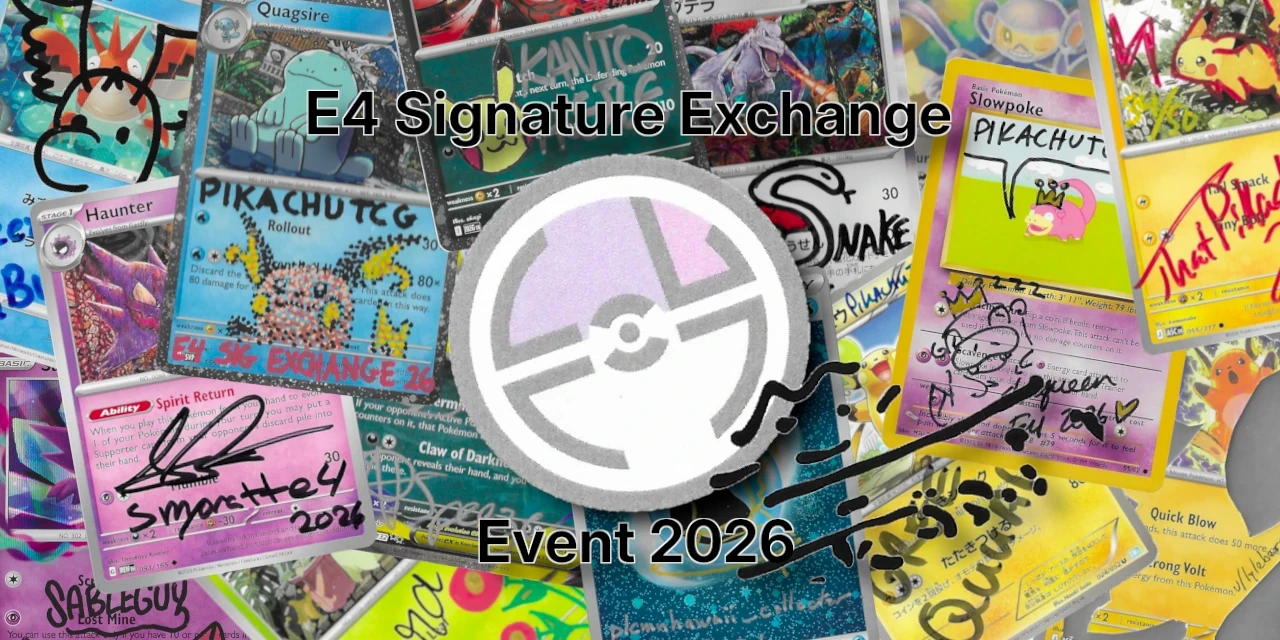
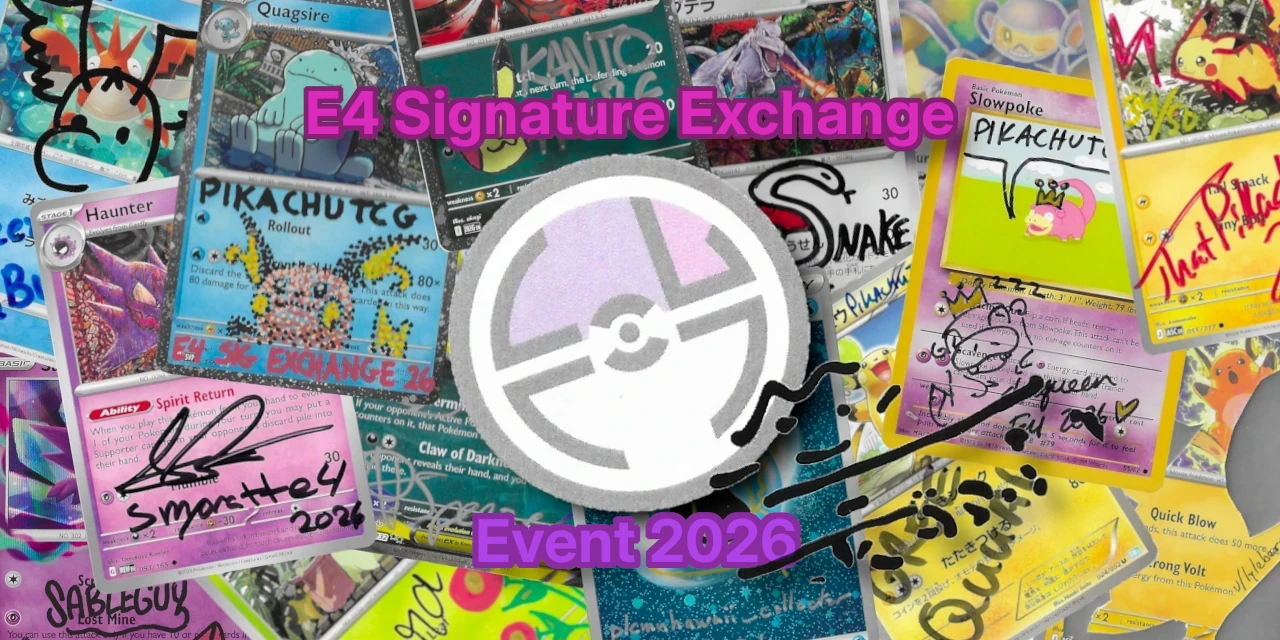
update thumbnail

Changed region(s): [[0.2188, 0.125, 0.75, 0.25], [0.3438, 0.7812, 0.625, 0.9062]]

diff --git a/blog/ja/authors/ashleyja/index.html b/blog/ja/authors/ashleyja/index.html
@@ -721,7 +721,7 @@
   <a class="flex flex-wrap article overflow-hidden" href="/blog/ja/posts/e4-signature-exchange-2026/">
     
         
-        <div class="w-full md:w-auto h-full thumbnail nozoom border border-neutral-200 dark:border-neutral-700 border-2 rounded-md " style="background-image:url(/blog/posts/e4-signature-exchange-2026/featured_hu13153117054338032655.webp);"></div>
+        <div class="w-full md:w-auto h-full thumbnail nozoom border border-neutral-200 dark:border-neutral-700 border-2 rounded-md " style="background-image:url(/blog/posts/e4-signature-exchange-2026/featured_hu3818849941804838268.webp);"></div>
         
       <div class=" p-4 ">
       <div class="items-center text-center text-xl font-semibold">

diff --git a/blog/ja/categories/blog/index.html b/blog/ja/categories/blog/index.html
@@ -721,7 +721,7 @@
   <a class="flex flex-wrap article overflow-hidden" href="/blog/ja/posts/e4-signature-exchange-2026/">
     
         
-        <div class="w-full md:w-auto h-full thumbnail nozoom border border-neutral-200 dark:border-neutral-700 border-2 rounded-md " style="background-image:url(/blog/posts/e4-signature-exchange-2026/featured_hu13153117054338032655.webp);"></div>
+        <div class="w-full md:w-auto h-full thumbnail nozoom border border-neutral-200 dark:border-neutral-700 border-2 rounded-md " style="background-image:url(/blog/posts/e4-signature-exchange-2026/featured_hu3818849941804838268.webp);"></div>
         
       <div class=" p-4 ">
       <div class="items-center text-center text-xl font-semibold">

diff --git a/blog/ja/posts/index.html b/blog/ja/posts/index.html
@@ -723,7 +723,7 @@
   <a class="flex flex-wrap article overflow-hidden" href="/blog/ja/posts/e4-signature-exchange-2026/">
     
         
-        <div class="w-full md:w-auto h-full thumbnail nozoom border border-neutral-200 dark:border-neutral-700 border-2 rounded-md " style="background-image:url(/blog/posts/e4-signature-exchange-2026/featured_hu13153117054338032655.webp);"></div>
+        <div class="w-full md:w-auto h-full thumbnail nozoom border border-neutral-200 dark:border-neutral-700 border-2 rounded-md " style="background-image:url(/blog/posts/e4-signature-exchange-2026/featured_hu3818849941804838268.webp);"></div>
         
       <div class=" p-4 ">
       <div class="items-center text-center text-xl font-semibold">

diff --git a/blog/ja/tags/e4/index.html b/blog/ja/tags/e4/index.html
@@ -721,7 +721,7 @@
   <a class="flex flex-wrap article overflow-hidden" href="/blog/ja/posts/e4-signature-exchange-2026/">
     
         
-        <div class="w-full md:w-auto h-full thumbnail nozoom border border-neutral-200 dark:border-neutral-700 border-2 rounded-md " style="background-image:url(/blog/posts/e4-signature-exchange-2026/featured_hu13153117054338032655.webp);"></div>
+        <div class="w-full md:w-auto h-full thumbnail nozoom border border-neutral-200 dark:border-neutral-700 border-2 rounded-md " style="background-image:url(/blog/posts/e4-signature-exchange-2026/featured_hu3818849941804838268.webp);"></div>
         
       <div class=" p-4 ">
       <div class="items-center text-center text-xl font-semibold">

diff --git a/blog/ja/tags/イベント/index.html b/blog/ja/tags/イベント/index.html
@@ -651,7 +651,7 @@
   <a class="flex flex-wrap article overflow-hidden" href="/blog/ja/posts/e4-signature-exchange-2026/">
     
         
-        <div class="w-full md:w-auto h-full thumbnail nozoom border border-neutral-200 dark:border-neutral-700 border-2 rounded-md " style="background-image:url(/blog/posts/e4-signature-exchange-2026/featured_hu13153117054338032655.webp);"></div>
+        <div class="w-full md:w-auto h-full thumbnail nozoom border border-neutral-200 dark:border-neutral-700 border-2 rounded-md " style="background-image:url(/blog/posts/e4-signature-exchange-2026/featured_hu3818849941804838268.webp);"></div>
         
       <div class=" p-4 ">
       <div class="items-center text-center text-xl font-semibold">

diff --git a/blog/ja/tags/コミュニティ/index.html b/blog/ja/tags/コミュニティ/index.html
@@ -651,7 +651,7 @@
   <a class="flex flex-wrap article overflow-hidden" href="/blog/ja/posts/e4-signature-exchange-2026/">
     
         
-        <div class="w-full md:w-auto h-full thumbnail nozoom border border-neutral-200 dark:border-neutral-700 border-2 rounded-md " style="background-image:url(/blog/posts/e4-signature-exchange-2026/featured_hu13153117054338032655.webp);"></div>
+        <div class="w-full md:w-auto h-full thumbnail nozoom border border-neutral-200 dark:border-neutral-700 border-2 rounded-md " style="background-image:url(/blog/posts/e4-signature-exchange-2026/featured_hu3818849941804838268.webp);"></div>
         
       <div class=" p-4 ">
       <div class="items-center text-center text-xl font-semibold">

diff --git a/blog/ja/tags/ポケモン/index.html b/blog/ja/tags/ポケモン/index.html
@@ -651,7 +651,7 @@
   <a class="flex flex-wrap article overflow-hidden" href="/blog/ja/posts/e4-signature-exchange-2026/">
     
         
-        <div class="w-full md:w-auto h-full thumbnail nozoom border border-neutral-200 dark:border-neutral-700 border-2 rounded-md " style="background-image:url(/blog/posts/e4-signature-exchange-2026/featured_hu13153117054338032655.webp);"></div>
+        <div class="w-full md:w-auto h-full thumbnail nozoom border border-neutral-200 dark:border-neutral-700 border-2 rounded-md " style="background-image:url(/blog/posts/e4-signature-exchange-2026/featured_hu3818849941804838268.webp);"></div>
         
       <div class=" p-4 ">
       <div class="items-center text-center text-xl font-semibold">

diff --git a/blog/authors/ashley/index.html b/blog/authors/ashley/index.html
@@ -648,7 +648,7 @@
   <a class="flex flex-wrap article overflow-hidden" href="/blog/posts/e4-signature-exchange-2026/">
     
         
-        <div class="w-full md:w-auto h-full thumbnail nozoom border border-neutral-200 dark:border-neutral-700 border-2 rounded-md " style="background-image:url(/blog/posts/e4-signature-exchange-2026/featured_hu13153117054338032655.webp);"></div>
+        <div class="w-full md:w-auto h-full thumbnail nozoom border border-neutral-200 dark:border-neutral-700 border-2 rounded-md " style="background-image:url(/blog/posts/e4-signature-exchange-2026/featured_hu3818849941804838268.webp);"></div>
         
       <div class=" p-4 ">
       <div class="items-center text-center text-xl font-semibold">

diff --git a/blog/categories/blog/index.html b/blog/categories/blog/index.html
@@ -718,7 +718,7 @@
   <a class="flex flex-wrap article overflow-hidden" href="/blog/posts/e4-signature-exchange-2026/">
     
         
-        <div class="w-full md:w-auto h-full thumbnail nozoom border border-neutral-200 dark:border-neutral-700 border-2 rounded-md " style="background-image:url(/blog/posts/e4-signature-exchange-2026/featured_hu13153117054338032655.webp);"></div>
+        <div class="w-full md:w-auto h-full thumbnail nozoom border border-neutral-200 dark:border-neutral-700 border-2 rounded-md " style="background-image:url(/blog/posts/e4-signature-exchange-2026/featured_hu3818849941804838268.webp);"></div>
         
       <div class=" p-4 ">
       <div class="items-center text-center text-xl font-semibold">

diff --git a/blog/posts/index.html b/blog/posts/index.html
@@ -720,7 +720,7 @@
   <a class="flex flex-wrap article overflow-hidden" href="/blog/posts/e4-signature-exchange-2026/">
     
         
-        <div class="w-full md:w-auto h-full thumbnail nozoom border border-neutral-200 dark:border-neutral-700 border-2 rounded-md " style="background-image:url(/blog/posts/e4-signature-exchange-2026/featured_hu13153117054338032655.webp);"></div>
+        <div class="w-full md:w-auto h-full thumbnail nozoom border border-neutral-200 dark:border-neutral-700 border-2 rounded-md " style="background-image:url(/blog/posts/e4-signature-exchange-2026/featured_hu3818849941804838268.webp);"></div>
         
       <div class=" p-4 ">
       <div class="items-center text-center text-xl font-semibold">

diff --git a/blog/tags/community/index.html b/blog/tags/community/index.html
@@ -648,7 +648,7 @@
   <a class="flex flex-wrap article overflow-hidden" href="/blog/posts/e4-signature-exchange-2026/">
     
         
-        <div class="w-full md:w-auto h-full thumbnail nozoom border border-neutral-200 dark:border-neutral-700 border-2 rounded-md " style="background-image:url(/blog/posts/e4-signature-exchange-2026/featured_hu13153117054338032655.webp);"></div>
+        <div class="w-full md:w-auto h-full thumbnail nozoom border border-neutral-200 dark:border-neutral-700 border-2 rounded-md " style="background-image:url(/blog/posts/e4-signature-exchange-2026/featured_hu3818849941804838268.webp);"></div>
         
       <div class=" p-4 ">
       <div class="items-center text-center text-xl font-semibold">

diff --git a/blog/tags/e4/index.html b/blog/tags/e4/index.html
@@ -718,7 +718,7 @@
   <a class="flex flex-wrap article overflow-hidden" href="/blog/posts/e4-signature-exchange-2026/">
     
         
-        <div class="w-full md:w-auto h-full thumbnail nozoom border border-neutral-200 dark:border-neutral-700 border-2 rounded-md " style="background-image:url(/blog/posts/e4-signature-exchange-2026/featured_hu13153117054338032655.webp);"></div>
+        <div class="w-full md:w-auto h-full thumbnail nozoom border border-neutral-200 dark:border-neutral-700 border-2 rounded-md " style="background-image:url(/blog/posts/e4-signature-exchange-2026/featured_hu3818849941804838268.webp);"></div>
         
       <div class=" p-4 ">
       <div class="items-center text-center text-xl font-semibold">
